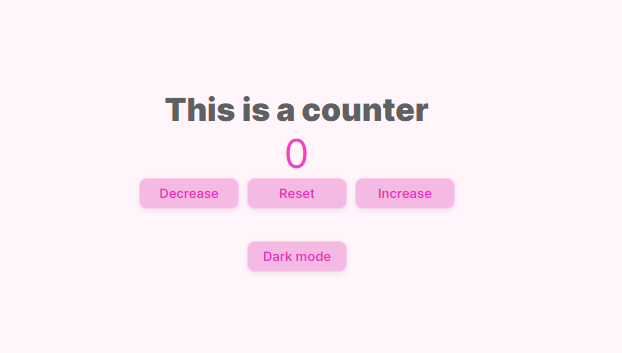
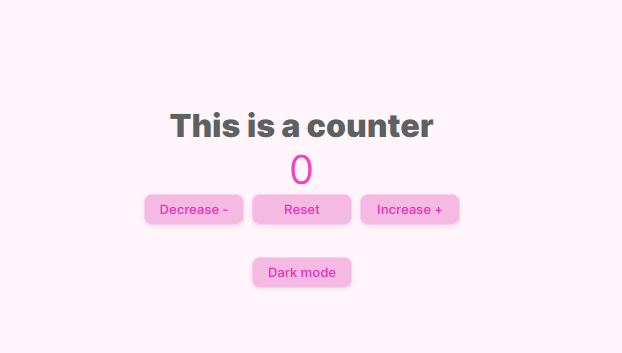
update the image on readme

Changed region(s): [[0.2138, 0.2805, 0.7637, 0.6544], [0.3971, 0.6856, 0.5804, 0.8414]]

diff --git a/index.html b/index.html
@@ -13,9 +13,9 @@
       <p class="counter">0</p>
     </div>
     <div class="buttons-container">
-      <button class="decrease">Decrease</button>
+      <button class="decrease">Decrease -</button>
       <button class="reset">Reset</button>
-      <button class="increase">Increase</button>
+      <button class="increase">Increase +</button>
     </div>
     <button class="toggle" onclick="goTolight()">Light mode</button>
     <script src="app.js"></script>

diff --git a/README.md b/README.md
@@ -1,8 +1,8 @@
-# simple-counter
+# Simple counter in JavaScript
 
 This is a simple project to show skills in DOM manipulation in javascript.
 
-![Alt text](simple-counter.png?raw=true "Title")
+![Alt text](dark_mode.png?raw=true "Title")
 
 I also put a toggle button for option as a "light mode"
 just for training...
